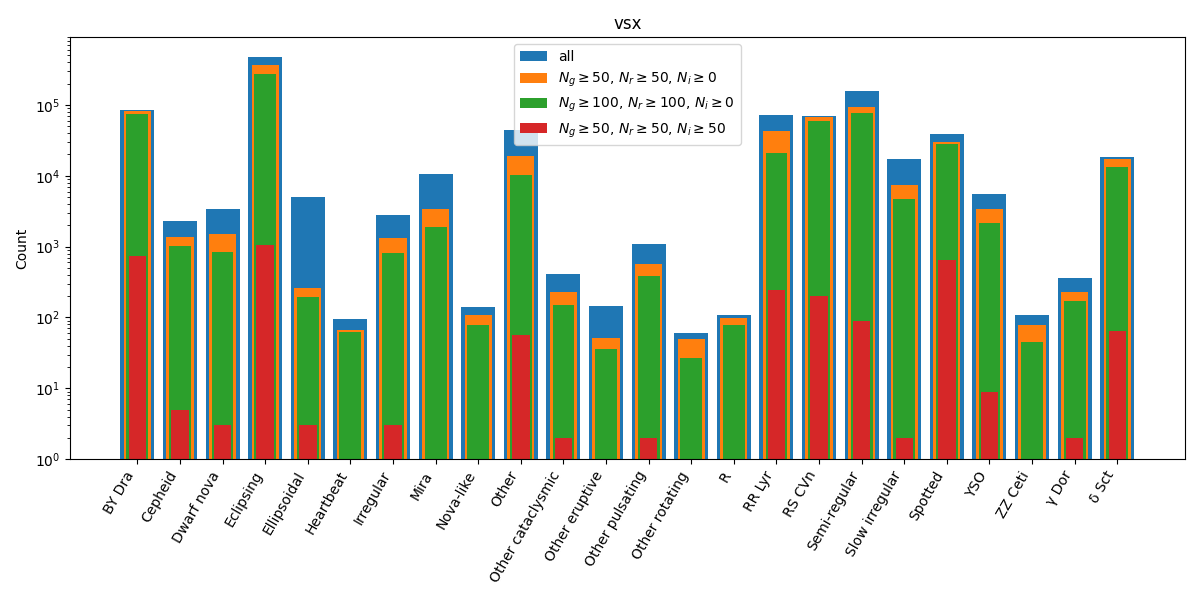
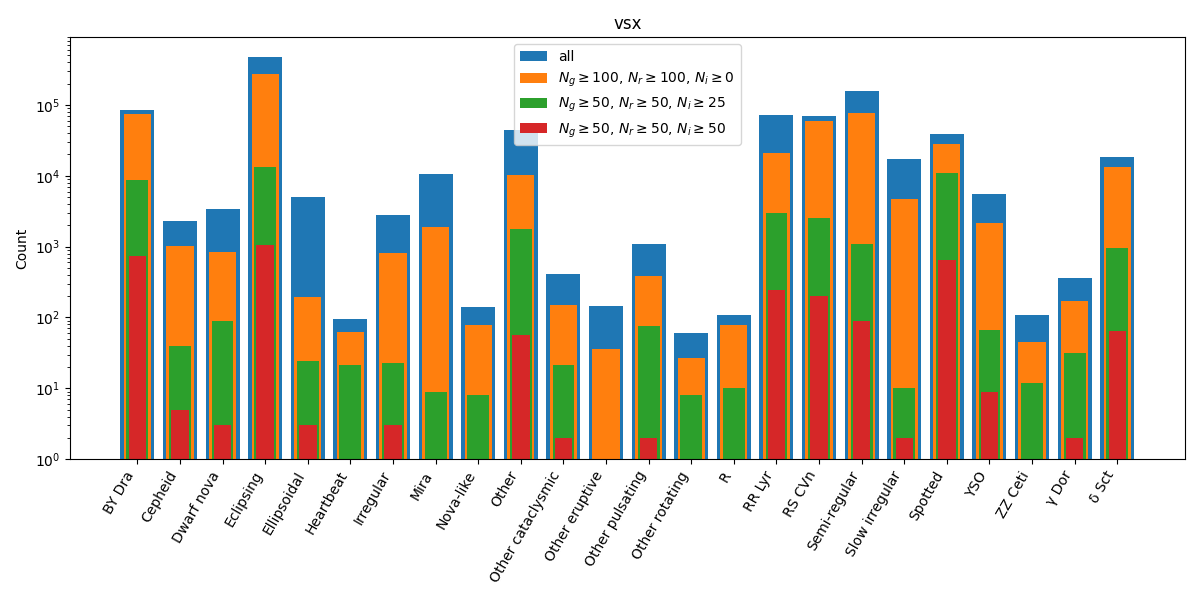
Plot and analyze folded light curve fits

diff --git a/ch_vars/plot.py b/ch_vars/plot.py
@@ -41,11 +41,19 @@ class VarTypeColumn:
 
 
 @dataclasses.dataclass(frozen=True, eq=False)
+class TypePlotAll:
+    threshold: dict = dataclasses.field(default_factory=lambda: {1: 50, 2: 50, 3: 50})
+    as_is: bool = False
+    folded: bool = False
+
+
+@dataclasses.dataclass(frozen=True, eq=False)
 class Catalog:
     filename: str
     id_column: str
     var_type_column: VarTypeColumn
     periodic_types: dict = dataclasses.field(default_factory=dict)
+    types_plot_all: dict = dataclasses.field(default_factory=dict)
 
 
 CATALOGS = {
@@ -90,6 +98,13 @@ CATALOGS = {
             'γ Dor': PeriodRange(min_period=0.1, max_period=10),
             'δ Sct': PeriodRange(max_period=5),
         },
+        types_plot_all={
+            'Cepheid': TypePlotAll(threshold={1: 50, 2: 50, 3: 20}, folded=True),
+            'Ellipsoidal': TypePlotAll(threshold={1: 100, 2: 100, 3: 0}, folded=True),
+            'R': TypePlotAll(threshold={1: 100, 2: 100, 3: 0}, folded=True),
+            'RR Lyr': TypePlotAll(threshold={1: 50, 2: 50, 3: 50}, folded=True),
+            'δ Sct': TypePlotAll(threshold={1: 50, 2: 50, 3: 40}, folded=True),
+        },
     ),
 }
 
@@ -114,8 +129,8 @@ BAND_WAVELENGTHS = {
 }
 
 VAR_TYPE_THRESHOLDS = (
-    {1: 50, 2: 50, 3: 0},
     {1: 100, 2: 100, 3: 0},
+    {1: 50, 2: 50, 3: 25},
     {1: 50, 2: 50, 3: 50},
 )
 
@@ -252,6 +267,21 @@ def plot_var_types_chart(table, catalog, fig_path):
     plt.close(fig)
 
 
+def approx(lc, timescale=3) -> Optional[Callable]:
+    if lc.size < 10:
+        return None
+    mean = np.average(lc['mag'], weights=lc['magerr']**-2)
+    mag = lc['mag'] - mean
+    kernel = np.var(mag) * george.kernels.ExpSquaredKernel(timescale)
+    gp = george.GP(kernel)
+    gp.compute(lc['mjd'], lc['magerr'])
+
+    def f(x):
+        return gp.predict(mag, x, return_cov=False, return_var=False) + mean
+
+    return f
+
+
 def plot_lc(ax, obj, *, bands):
     lcs = {band: {'mjd': obj['mjd'].item()[idx], 'mag': obj['mag'].item()[idx], 'magerr': obj['magerr'].item()[idx]}
            for band in bands
@@ -263,13 +293,21 @@ def plot_lc(ax, obj, *, bands):
     for band, lc in lcs.items():
         ax.errorbar(
             lc['mjd'], lc['mag'], lc['magerr'],
-            ls='', marker='x', color=COLORS[band],
+            ls='', marker='x', color=COLORS[band], alpha=0.3,
             label=BAND_NAMES[band],
         )
+        ylim = ax.get_ylim()
+        spline = approx(lc)
+        if spline is None:
+            continue
+        t = np.linspace(lc['mjd'].min(), lc['mjd'].max(), 128)
+        interp = spline(t)
+        ax.plot(t, interp, '-', color=COLORS[band], label='')
+        ax.set_ylim(ylim)
     ax.legend(loc='upper right')
 
 
-def approx_periodic(lc) -> Optional:
+def approx_periodic(lc, period=1.0) -> Optional[Callable]:
     _, idx = np.unique(lc['phase'], return_index=True)
     if idx.size < 10:
         return None
@@ -278,7 +316,7 @@ def approx_periodic(lc) -> Optional:
     magerr = lc['magerr'][idx]
     mean = np.average(mag, weights=magerr**-2)
     mag -= mean
-    kernel = george.kernels.ExpSine2Kernel(gamma=1.0, log_period=0.0)
+    kernel = george.kernels.ExpSine2Kernel(gamma=1.0, log_period=np.log(period))
     # No fitting => no reason to freeze
     # kernel.freeze_parameter('k2:log_period')
     gp = george.GP(kernel)
@@ -304,15 +342,17 @@ def plot_folded(ax, obj, *, bands):
             ax.errorbar(
                 lc['phase'] + repeat, lc['mag'], lc['magerr'],
                 ls='', marker='x', color=COLORS[band],
-                label=label, alpha=0.2,
+                label=label, alpha=0.1,
             )
+        ylim = ax.set_ylim()
         spline = approx_periodic(lc)
         if spline is None:
             continue
-        ph = np.linspace(0, 1.0, 1024)
+        ph = np.linspace(0, 1.0, 128)
         interp = spline(ph)
         for repeat in range(-1, 2):
             ax.plot(ph + repeat, interp, '-', color=COLORS[band], label='')
+        ax.set_ylim(ylim)
     ax.set_xlim([-0.2, 1.8])
     secax = ax.secondary_xaxis('top', functions=(lambda x: x * obj['period'], lambda x: x / obj['period']))
     secax.set_xlabel('Folded time, days')
@@ -347,12 +387,11 @@ def plot_lc_examples(table, catalog, fig_path, bands=tuple(BAND_NAMES), n_per_ty
 
     for type_idx, t in enumerate(var_types):
         positions = np.where(inverse_idx == type_idx)[0]
-        try:
-            object_positions = rng.choice(positions, n_per_type, replace=False)
-        except ValueError:
+        if n_per_type < positions.size:
             msg = f'n_per_type is {n_per_type} but there are only {positions.size} of objects of type {t}'
             logging.warning(msg)
             continue
+        object_positions = rng.choice(positions, n_per_type, replace=False)
         objects = table.iloc[object_positions].to_records().reshape(n_rows, n_columns)
 
         plot_lcs(
@@ -380,7 +419,20 @@ def plot_lc_examples(table, catalog, fig_path, bands=tuple(BAND_NAMES), n_per_ty
             )
 
 
+def plot_all_lc(objects, catalog, fig_path, bands=tuple(BAND_NAMES), ax_plot=plot_lc):
+    for obj in objects:
+        plot_lcs(
+            np.array([[obj]]),
+            path=os.path.join(fig_path, f'{obj["id"]}.png'),
+            suptitle='',
+            bands=bands,
+            ax_plot=ax_plot,
+        )
+
+
 def plot(catalog, data_path, fig_path):
+    cat = CATALOGS[catalog]
+
     table = load_data(catalog, data_path=data_path)
 
     bands = sorted(set(chain.from_iterable(table['filter'])))
@@ -393,12 +445,29 @@ def plot(catalog, data_path, fig_path):
 
     examples_path = os.path.join(fig_path, 'lc_examples')
     os.makedirs(examples_path, exist_ok=True)
-    threshold = VAR_TYPE_THRESHOLDS[1]
+    threshold = VAR_TYPE_THRESHOLDS[0]
     idx_path_threshold = reduce(
         and_,
         (table[obs_count_column_name(band)] >= min_value for band, min_value in threshold.items()),
     )
     plot_lc_examples(table[idx_path_threshold], catalog, fig_path=examples_path, rng=0)
+
+    for t, tpa in cat.types_plot_all.items():
+        idx = reduce(
+            and_,
+            (table[obs_count_column_name(band)] >= min_value for band, min_value in tpa.threshold.items()),
+        )
+        bands = sorted(band for band, v in tpa.threshold.items() if v > 0)
+        objects = table[idx & (table['var_type'] == t)].to_records()
+        if tpa.as_is:
+            raise NotImplementedError
+        if tpa.folded:
+            folded_objects = np.array(
+                [fold_lc(obj, period_range=cat.periodic_types[t].range) for obj in objects]
+            )
+            lc_path = os.path.join(fig_path, f'{catalog}_{t}_folded')
+            os.makedirs(lc_path, exist_ok=True)
+            plot_all_lc(folded_objects, catalog, lc_path, bands=bands, ax_plot=plot_folded)
 
 
 def parse_args():
